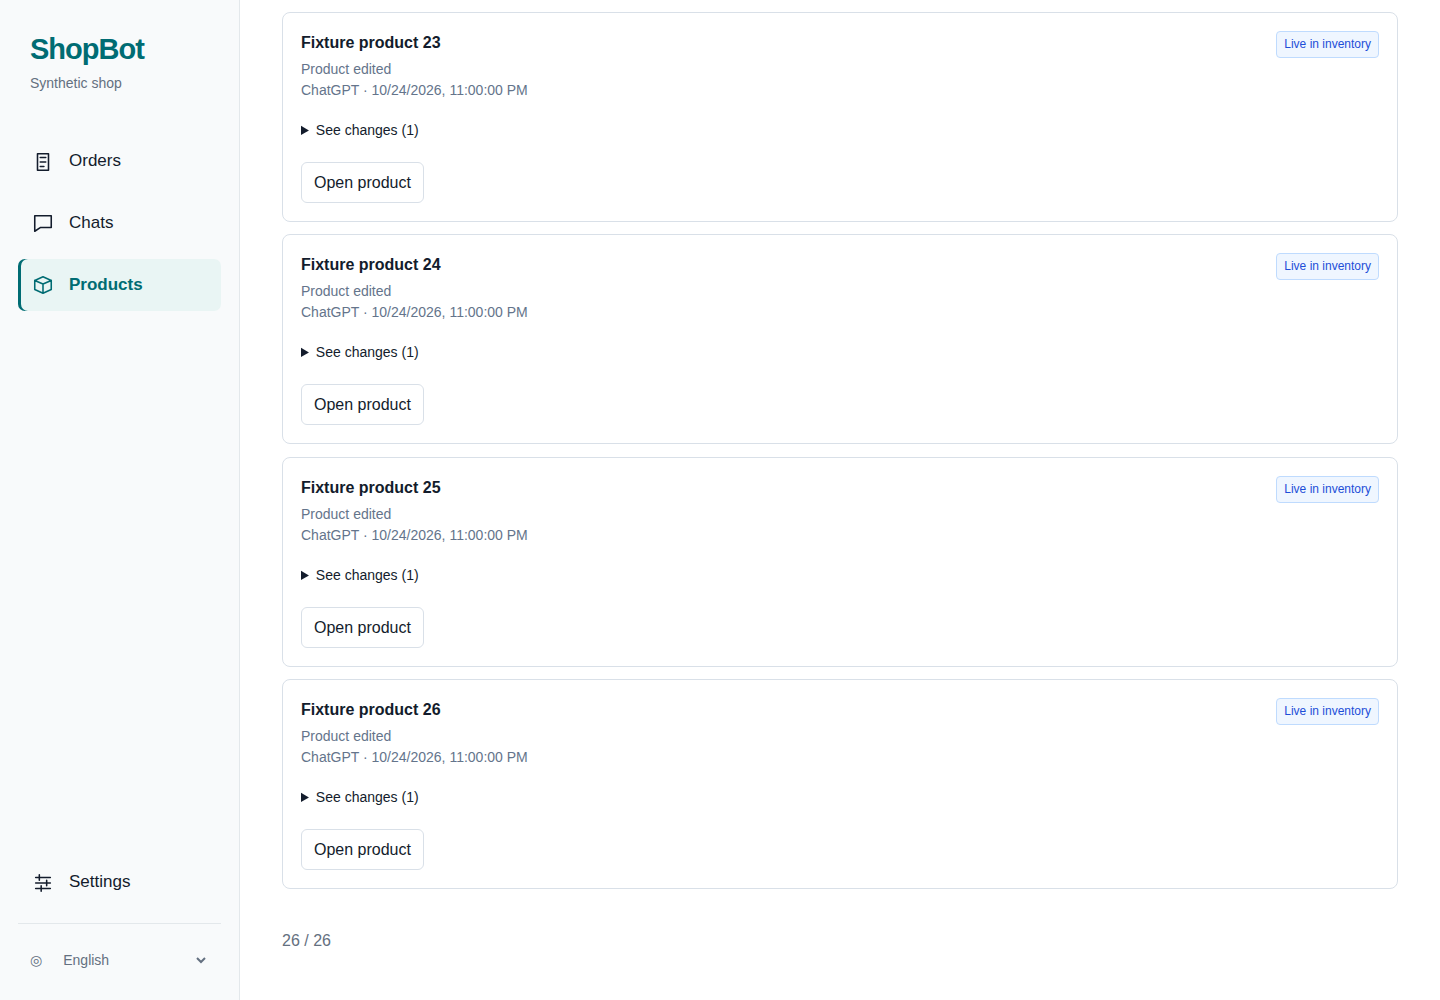
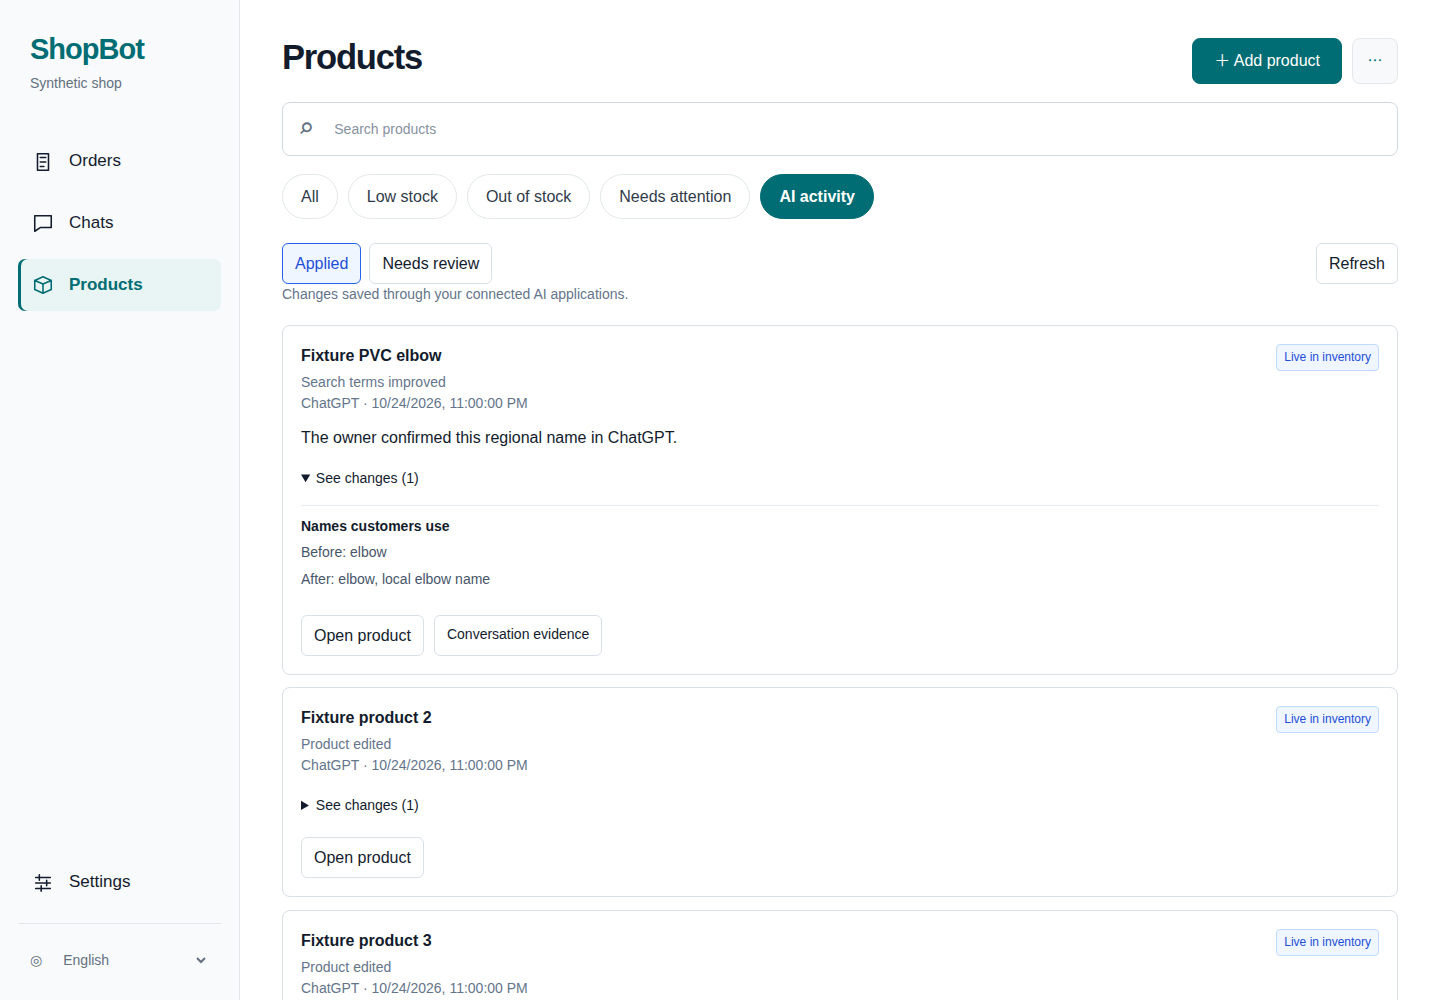
Record complete audit verification and populated recovery rehearsal

diff --git a/03-Output/improvement-audit/README.md b/03-Output/improvement-audit/README.md
@@ -16,7 +16,7 @@ The supplied recording is 133.37 seconds with no audio stream. Read-only access 
 
 The new audit tests cover scopes, pagination, saved cutoff resumption, truthful coverage, cross-shop evidence, grant expiry/revocation, actual MCP invocation, atomic 25-product batches, stale versions, conflicting terms/dimensions, idempotent receipts, undo, preservation of commercial/photo fields, activity provenance, pending unmatched requests and microsecond-safe review pagination. Existing migration fixtures now remove new objects when deliberately reconstructing old schema versions.
 
-Build/typecheck, all four catalog cleanup checks, 19 focused audit tests, and synthetic dashboard acceptance at 1440/390/320 px pass. Browser checks exercise default Applied, before/after values, long histories, unmatched suggestions, evidence links, opening the exact product, failed reads and stale request cancellation. [Restore evidence](RESTORE.json) records an actual populated dump/restore plus repeat migrations across 31 tables, including audit records and media hashes. Full-suite and release results are recorded separately when complete.
+Build/typecheck, all four catalog cleanup checks, 19 focused audit tests, and synthetic dashboard acceptance at 1440/390/320 px pass. Browser checks exercise default Applied, before/after values, long histories, unmatched suggestions, evidence links, opening the exact product, failed reads and stale request cancellation. [Restore evidence](RESTORE.json) records an actual populated dump/restore plus repeat migrations across 31 tables, including audit records and media hashes. The final full integration suite passes **997/997**, with zero skips. [Verification](VERIFICATION.json) records the checks; release results are recorded separately.
 
 Screenshots use synthetic fixtures: [desktop](desktop.png), [phone](mobile.png), [narrow phone](narrow.png). No synthetic WhatsApp message, paid AI inference or payment was sent. Actual owner-led ChatGPT audit and fresh WhatsApp device acceptance remain required after release. No speculative alias has been applied to live inventory.
 

diff --git a/02-Build/shopbot-ai/deploy/native/RELEASE-CHECKS.md b/02-Build/shopbot-ai/deploy/native/RELEASE-CHECKS.md
@@ -32,7 +32,7 @@ The local Codex CLI accepted this configuration shape. The user's real Codex con
 
 ## Backup and pilot evidence
 
-`npm run release:restore-rehearsal -- /tmp/evidence.json` requires `DATABASE_URL` pointing to a disposable local PostgreSQL instance and `SHOPBOT_RESTORE_CONTAINER` naming its explicitly disposable ShopBot Docker container. It creates two temporary databases, restores an actual custom-format dump, reruns migrations and compares retained data hashes. It does not touch merchant databases. This complements the populated v26→v31 migration test; it does not replace a production restoration and executable rollback rehearsal.
+`npm run release:restore-rehearsal -- /tmp/evidence.json` requires `DATABASE_URL` pointing to a disposable local PostgreSQL instance and `SHOPBOT_RESTORE_CONTAINER` naming its explicitly disposable ShopBot Docker container. Alternatively set `SHOPBOT_RESTORE_PG_BIN` to local PostgreSQL binaries with the loopback test database credentials; this also creates only uniquely named disposable test databases. It creates two temporary databases, restores an actual custom-format dump, reruns migrations and compares retained data hashes. It does not touch merchant databases. This complements the populated v26→v31 migration test; it does not replace a production restoration and executable rollback rehearsal.
 
 After deployment, use fresh conversations on the authorized pilot number. Cover the five-item order, pump/cutter, missing paint count, read-only price interruption, keep/clear, owner acceptance/ready/collection, noisy voice, handwritten and printed lists, and correction recovery. Real speakers, source photos, Tamil terminology and merchant facts need human review. Mocks and TTS cannot establish that accuracy.
 

diff --git a/02-Build/shopbot-ai/STATUS.md b/02-Build/shopbot-ai/STATUS.md
@@ -1,6 +1,6 @@
 ## 25 October 2026 — shopping recovery and owner-led catalog audits
 
-Implemented item-focused recovery, accurate request acknowledgements, five permission-filtered audit MCP tools, narrow atomic search-term patches with receipts/undo, transactional AI product provenance and Products → AI activity. Additive migration 50 retains existing catalog and commerce data. Build/typecheck, focused tests, desktop/phone browser checks, catalog cleanup and populated backup/restore rehearsal pass; final full regression and VPS activation evidence are tracked in [implementation evidence](../../03-Output/improvement-audit/README.md). Owner ChatGPT/WhatsApp acceptance remains open.
+Implemented item-focused recovery, accurate request acknowledgements, five permission-filtered audit MCP tools, narrow atomic search-term patches with receipts/undo, transactional AI product provenance and Products → AI activity. Additive migration 50 retains existing catalog and commerce data. Build/typecheck, focused tests, desktop/phone browser checks, catalog cleanup and populated backup/restore rehearsal pass; all 997 integration tests pass. VPS activation evidence is tracked in [implementation evidence](../../03-Output/improvement-audit/README.md). Owner ChatGPT/WhatsApp acceptance remains open.
 
 ## 22 October 2026 — minimal redesign active on the VPS
 
